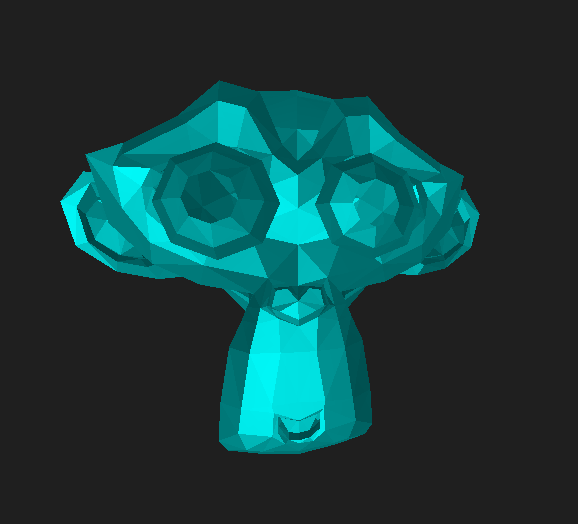
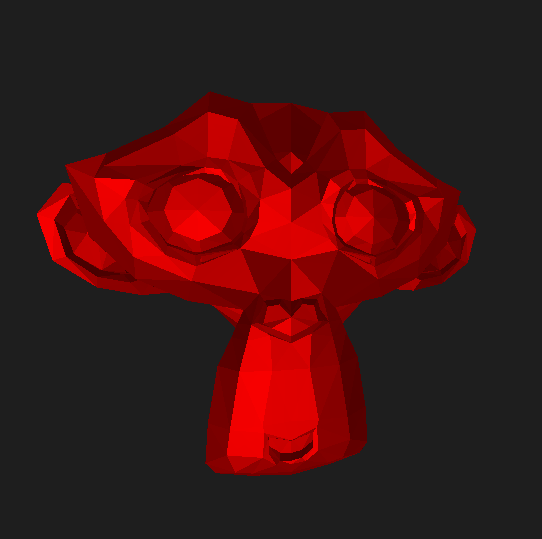
Naive Bloom done

diff --git a/js/main.js b/js/main.js
@@ -15,7 +15,7 @@ var quad = {};  // Empty object for full-screen quad
 
 // Framebuffer
 var fbo = null;
-
+var fbo2 = [];
 
 // Shader programs
 var passProg;     // Shader program for G-Buffer
@@ -40,15 +40,13 @@ var lightColors = [];
 var lightcolor;
 var lightdir;
 
-var KERNEL_SIZE = 5;
+
 var FILTER_NUM = 4;
-var kernel = [
-    1, 4, 6, 4, 1,
-    4, 16, 24, 16, 4,
-    6, 24, 36, 24, 6,
-    4, 16, 24, 16, 4,
-    1, 4, 6, 4, 1,
-  ];
+var kernel = [];
+var kernel2 = [];
+var filter0 = [];
+var filter1 = [];
+var bloomTex;
 
 var main = function (canvasId, messageId) {
   var canvas;
@@ -65,6 +63,11 @@ var main = function (canvasId, messageId) {
   // Set up models
   initObjs();
 
+  // init kernel
+  initKernel();
+
+  // init filters for bloom
+ // initFilters();
 
   // Set up shaders
   initShaders();
@@ -193,10 +196,10 @@ var renderPass = function () {
   gl.uniformMatrix4fv( passProg.uMVPLoc, false, mvpMat );        
   gl.uniformMatrix4fv( passProg.uNormalMatLoc, false, nmlMat );  
 
-  gl.activeTexture( gl.TEXTURE5 );  //texture
+  /*gl.activeTexture( gl.TEXTURE5 );  //texture
   //gl.bindTexture( gl.TEXTURE_2D, model.texture(0) );
   gl.bindTexture(gl.TEXTURE_2D, testTex);
-  gl.uniform1i(passProg.uSamplerLoc, 5);     
+  gl.uniform1i(passProg.uSamplerLoc, 5);     */
 
   drawModel(passProg, 0x3);
 
@@ -309,7 +312,7 @@ var renderShade = function () {
   gl.uniform3fv(shadeProg.uLightColorLoc, lightcolor);
 
   gl.uniform3fv(shadeProg.uEyePosLoc, camera.getEyePosition());
-  
+
   drawQuad(shadeProg);
 
   // Unbind FBO
@@ -343,6 +346,7 @@ var renderDiagnostic = function () {
   gl.uniform1f( diagProg.uZNearLoc, zNear );
   gl.uniform1f( diagProg.uZFarLoc, zFar );
   gl.uniform1i( diagProg.uDisplayTypeLoc, texToDisplay ); 
+
   
   drawQuad(diagProg);
 };
@@ -358,17 +362,127 @@ var renderPost = function () {
   gl.activeTexture( gl.TEXTURE4 );
   gl.bindTexture( gl.TEXTURE_2D, fbo.texture(4) );
   gl.uniform1i(postProg.uShadeSamplerLoc, 4 );
+
   gl.uniform1i( postProg.uDisplayTypeLoc, texToDisplay ); 
 
-  gl.uniform1f(postProg.uKernelLoc, KERNEL_SIZE * KERNEL_SIZE, kernel);   //pass in the 5*5 kernel
-  for(var i=0; i< FILTER_NUM; i++ ){
-    gl.uniform1f(postProg.uOffsetLoc, 1.0 / canvas.width );   //pass in the texture coord offset
-  }
+  /*gl.activeTexture(gl.TEXTURE5);
+  gl.bindTexture(gl.TEXTURE_2D, filter1[0]);
+  gl.uniform1i(postProg.uBloomSamplerLoc0,5);
+
+  gl.activeTexture(gl.TEXTURE6);
+  gl.bindTexture(gl.TEXTURE_2D, filter1[1]);
+  gl.uniform1i(postProg.uBloomSamplerLoc1,6);
+
+  gl.activeTexture(gl.TEXTURE7);
+  gl.bindTexture(gl.TEXTURE_2D, filter1[2]);
+  gl.uniform1i(postProg.uBloomSamplerLoc2,7);
+
+  gl.activeTexture(gl.TEXTURE8);
+  gl.bindTexture(gl.TEXTURE_2D, filter1[3]);
+  gl.uniform1i(postProg.uBloomSamplerLoc3,8);*/
+
+  //gl.uniform1fv(postProg.uKernelLoc, 5*5, kernel);   //pass in the 5*5 kernel
+  gl.uniform1fv(postProg.uKernelLoc, kernel);   //pass in the 5*5 kernel
+  gl.uniform1fv(postProg.uKernel2Loc, kernel2);   //pass in the 21*21 kernel
+  gl.uniform1f(postProg.uOffsetLoc, 1.0 / canvas.width);
+
+
+/*  gl.activeTexture(gl.TEXTURE5);
+  gl.bindTexture(gl.TEXTURE_2D, fbo2[i]);
+  gl.uniform1i(postProg.uBloomSamplerLoc0,5);*/
+
+
+  
+
 
 
 
   drawQuad(postProg);
 };
+
+var initKernel = function(){   //normalize kenel
+  kernel = [
+    1, 4, 6, 4, 1,
+    4, 16, 24, 16, 4,
+    6, 24, 36, 24, 6,
+    4, 16, 24, 16, 4,
+    1, 4, 6, 4, 1,
+  ];
+  var sum = 0;
+  for(var i=0; i< 5*5; i++){
+    sum += kernel[i];
+  }
+   for(var i=0; i< 5*5; i++){
+    kernel[i] /= sum;
+  }
+
+
+  var sigma = 5.0;
+  var sum2 = 0.0;
+  var m = 21.0;
+  var n = 21.0;
+  for(var i = 0; i<= m-1; i++){
+      for(var j = 0; j<= n-1; j++){
+        var h1 = i -(m-1.0)/2.0;
+        var h2 = j -(n-1.0)/2.0;
+        var tmp = 0.5*Math.exp(-Math.pow(h1,2.0)-Math.pow(h2,2.0)) / Math.pow(sigma,2.0);
+        kernel2[i*m+j] = tmp;
+        sum2 += tmp;
+      }
+    }
+
+  for(var i = 0; i<= m-1; i++){
+      for(var j = 0; j<= n-1; j++){
+        kernel2[i*m+j] /= sum2;
+      }
+    }
+   // console.log("kernel 2 init: " + kernel2.length);
+  //console.log(kernel);
+  //console.log(kernel2);
+};
+
+
+var initFilters = function(){
+  var w = canvas.width;
+  var h = canvas.height;
+  for(var i=0; i<FILTER_NUM; i++){
+    filter0[i] = gl.createTexture();
+    gl.bindTexture(gl.TEXTURE_2D, filter0[i]);
+    gl.texParameteri(gl.TEXTURE_2D, gl.TEXTURE_MAG_FILTER, gl.LINEAR);
+    gl.texParameteri(gl.TEXTURE_2D, gl.TEXTURE_MIN_FILTER, gl.LINEAR);
+    gl.texParameteri(gl.TEXTURE_2D, gl.TEXTURE_WRAP_S, gl.CLAMP_TO_EDGE);
+    gl.texParameteri(gl.TEXTURE_2D, gl.TEXTURE_WRAP_T, gl.CLAMP_TO_EDGE);
+    gl.texImage2D(gl.TEXTURE_2D, 0, gl.RGBA, w, h, 0, gl.RGBA, gl.FLOAT, null);
+
+    fbo2[i] = gl.createFramebuffer();
+    gl.bindFramebuffer(gl.FRAMEBUFFER, fbo2[i]);
+    gl.framebufferTexture2D(gl.FRAMEBUFFER, gl.COLOR_ATTACHMENT0, gl.TEXTURE_2D, filter0[i], 0);
+    if(gl.checkFramebufferStatus(gl.FRAMEBUFFER) != gl.FRAMEBUFFER_COMPLETE) {
+      console.log("init framebuffer failed at fbo2[" + i + "]");
+    }
+
+    filter1[i] = gl.createTexture();
+    gl.bindTexture(gl.TEXTURE_2D, filter1[i]);
+    gl.texParameteri(gl.TEXTURE_2D, gl.TEXTURE_MAG_FILTER, gl.LINEAR);
+    gl.texParameteri(gl.TEXTURE_2D, gl.TEXTURE_MIN_FILTER, gl.LINEAR);
+    gl.texParameteri(gl.TEXTURE_2D, gl.TEXTURE_WRAP_S, gl.CLAMP_TO_EDGE);
+    gl.texParameteri(gl.TEXTURE_2D, gl.TEXTURE_WRAP_T, gl.CLAMP_TO_EDGE);
+    gl.texImage2D(gl.TEXTURE_2D, 0, gl.RGBA, w, h, 0, gl.RGBA, gl.FLOAT, null);
+
+    fbo2[FILTER_NUM + i] = gl.createFramebuffer();
+    gl.bindFramebuffer(gl.FRAMEBUFFER, fbo2[FILTER_NUM + i]);
+    gl.framebufferTexture2D(gl.FRAMEBUFFER, gl.COLOR_ATTACHMENT0, gl.TEXTURE_2D, filter1[i], 0);
+    if(gl.checkFramebufferStatus(gl.FRAMEBUFFER) != gl.FRAMEBUFFER_COMPLETE) {
+      console.log("init framebuffer failed at fbo2[" + FILTER_NUM + i + "]");
+    }
+
+    w /= 2; // w >> 1;
+    h /= 2; //h >> 1;
+
+  }
+
+  console.log("successfully init " + FILTER_NUM+" filters");
+}
 
 var initGL = function (canvasId, messageId) {
   var msg;
@@ -571,6 +685,9 @@ var initShaders = function () {
     shadeProg.uZNearLoc = gl.getUniformLocation( shadeProg.ref(), "u_zNear" );
     shadeProg.uZFarLoc = gl.getUniformLocation( shadeProg.ref(), "u_zFar" );
     shadeProg.uDisplayTypeLoc = gl.getUniformLocation( shadeProg.ref(), "u_displayType" );
+
+  //  shadeProg.uKernelLoc = gl.getUniformLocation( shadeProg.ref(), "u_kernel");  // 25 * float 
+   // shadeProg.uOffsetLoc = gl.getUniformLocation( shadeProg.ref(), "u_offset");   //texture coord offset
   });
   CIS565WEBGLCORE.registerAsyncObj(gl, shadeProg); 
 
@@ -583,9 +700,16 @@ var initShaders = function () {
     postProg.aVertexTexcoordLoc = gl.getAttribLocation( postProg.ref(), "a_texcoord" );
 
     postProg.uShadeSamplerLoc = gl.getUniformLocation( postProg.ref(), "u_shadeTex");
-    postProg.uKernelLoc = gl.getUniformLocation( postProg.ref(), "u_kernel");  // 25 * float 
-    postProg.uOffsetLoc = gl.getUniformLocation( postProg.ref(), "u_offset");   //texture coord offset
     postProg.uDisplayTypeLoc = gl.getUniformLocation( postProg.ref(), "u_displayType" );
+    postProg.uBloomSamplerLoc = gl.getUniformLocation( postProg.ref(), "u_bloomTex");
+   /* postProg.uBloomSamplerLoc0 = gl.getUniformLocation( postProg.ref(), "u_bloomTex0");
+    postProg.uBloomSamplerLoc1 = gl.getUniformLocation( postProg.ref(), "u_bloomTex1");
+    postProg.uBloomSamplerLoc2 = gl.getUniformLocation( postProg.ref(), "u_bloomTex2");
+    postProg.uBloomSamplerLoc3 = gl.getUniformLocation( postProg.ref(), "u_bloomTex3");*/
+
+    postProg.uKernelLoc = gl.getUniformLocation( postProg.ref(), "u_kernel");  // 25 * float 
+    postProg.uKernel2Loc = gl.getUniformLocation( postProg.ref(), "u_kernel2");  // 21*21 * float 
+    postProg.uOffsetLoc = gl.getUniformLocation( postProg.ref(), "u_offset");   //texture coord offset
   });
   CIS565WEBGLCORE.registerAsyncObj(gl, postProg); 
 };
@@ -596,4 +720,5 @@ var initFramebuffer = function () {
     console.log("FBO Initialization failed");
     return;
   }
+
 };

diff --git a/js/core/fbo-util.js b/js/core/fbo-util.js
@@ -20,7 +20,7 @@ CIS565WEBGLCORE.createFBO = function(){
      var depthTex = null;
      var fbo = [];
 
-     var multipleTargets = false;
+     var multipleTargets = true;
 
      function init( gl, width, height ){
      	gl.getExtension( "OES_texture_float" );

diff --git a/README.md b/README.md
@@ -12,8 +12,7 @@ Please also ensure that you have below WebGL extensions, `OES_texture_float`, `O
 Recommendation is to use latest Firefox / Chrome running on GPU, and with D3D11.
 
 
--------------------------------------------------------------------------------
-KEYBOARDS:
+KEYBOARDS
 -------------------------------------------------------------------------------
 
 * W - Zoom in
@@ -38,8 +37,7 @@ KEYBOARDS:
 
 * mouse - camera rotation
 
--------------------------------------------------------------------------------
-PIPELINE:
+PIPELINE
 -------------------------------------------------------------------------------
 The deferred shader you will write will have the following stages:
 
@@ -65,20 +63,20 @@ Stage 3 renders the post processing
 * post.frag
 
 
--------------------------------------------------------------------------------
-FEATURES:
+
+FEATURES
 -------------------------------------------------------------------------------
 
 
-* Diffuse Shading
+* Diffuse Shading  
 ![Lambert](/pics/lambert.png)
 
-* Blinn Shading
+* Blinn Shading  
 ![Blinn](/pics/blinn.png)
 
-* Either of the following effects
-  * Bloom
-  * "Toon" Shading (with basic silhouetting)
+* Bloom  
+![Bloom](/pics/bloom1.png)
+* "Toon" Shading (with basic silhouetting)
 * Screen Space Ambient Occlusion 
 
 You must implement two of the following extras:
@@ -91,8 +89,8 @@ You must implement two of the following extras:
   * Must be accompanied with a performance analysis to count
 * Additional lighting and pre/post processing effects! (email first please, if they are good you may add multiple).
 
--------------------------------------------------------------------------------
-RUNNING THE CODE:
+
+RUNNING THE CODE
 -------------------------------------------------------------------------------
 
 Since the code attempts to access files that are local to your computer, you will either need to:
@@ -119,12 +117,10 @@ machine from the root directory of this repository with the following command:
 `python -m SimpleHTTPServer`
 
 
--------------------------------------------------------------------------------
 PERFORMANCE EVALUATION
 -------------------------------------------------------------------------------
 
 
--------------------------------------------------------------------------------
 REFERRENCES
 -------------------------------------------------------------------------------
 * Bloom : [GPU Gems](http://http.developer.nvidia.com/GPUGems/gpugems_ch21.html) 
